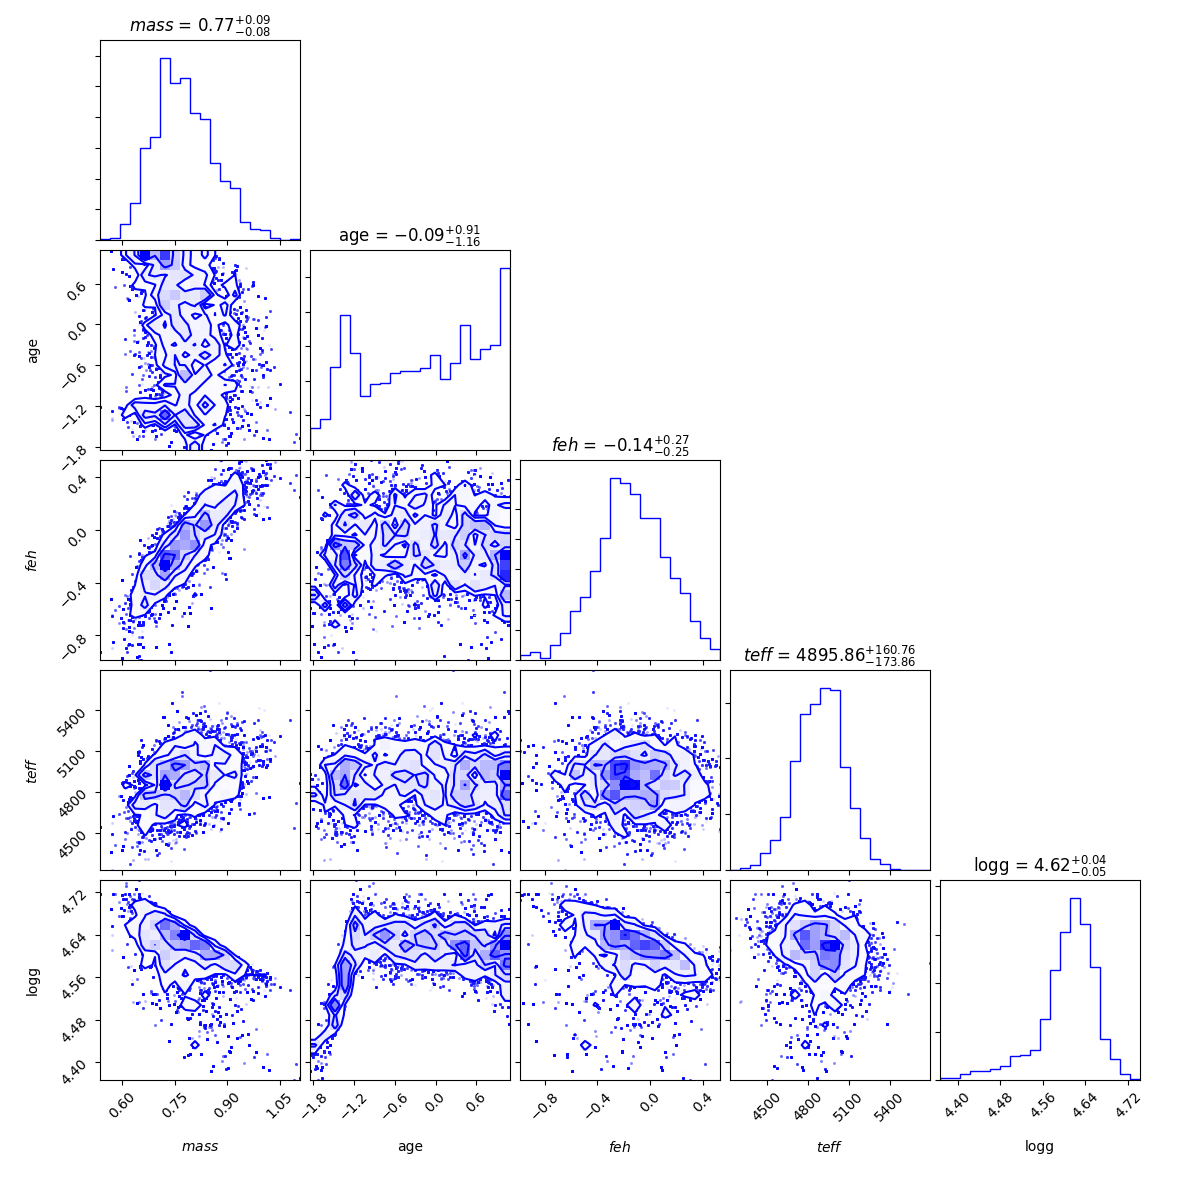
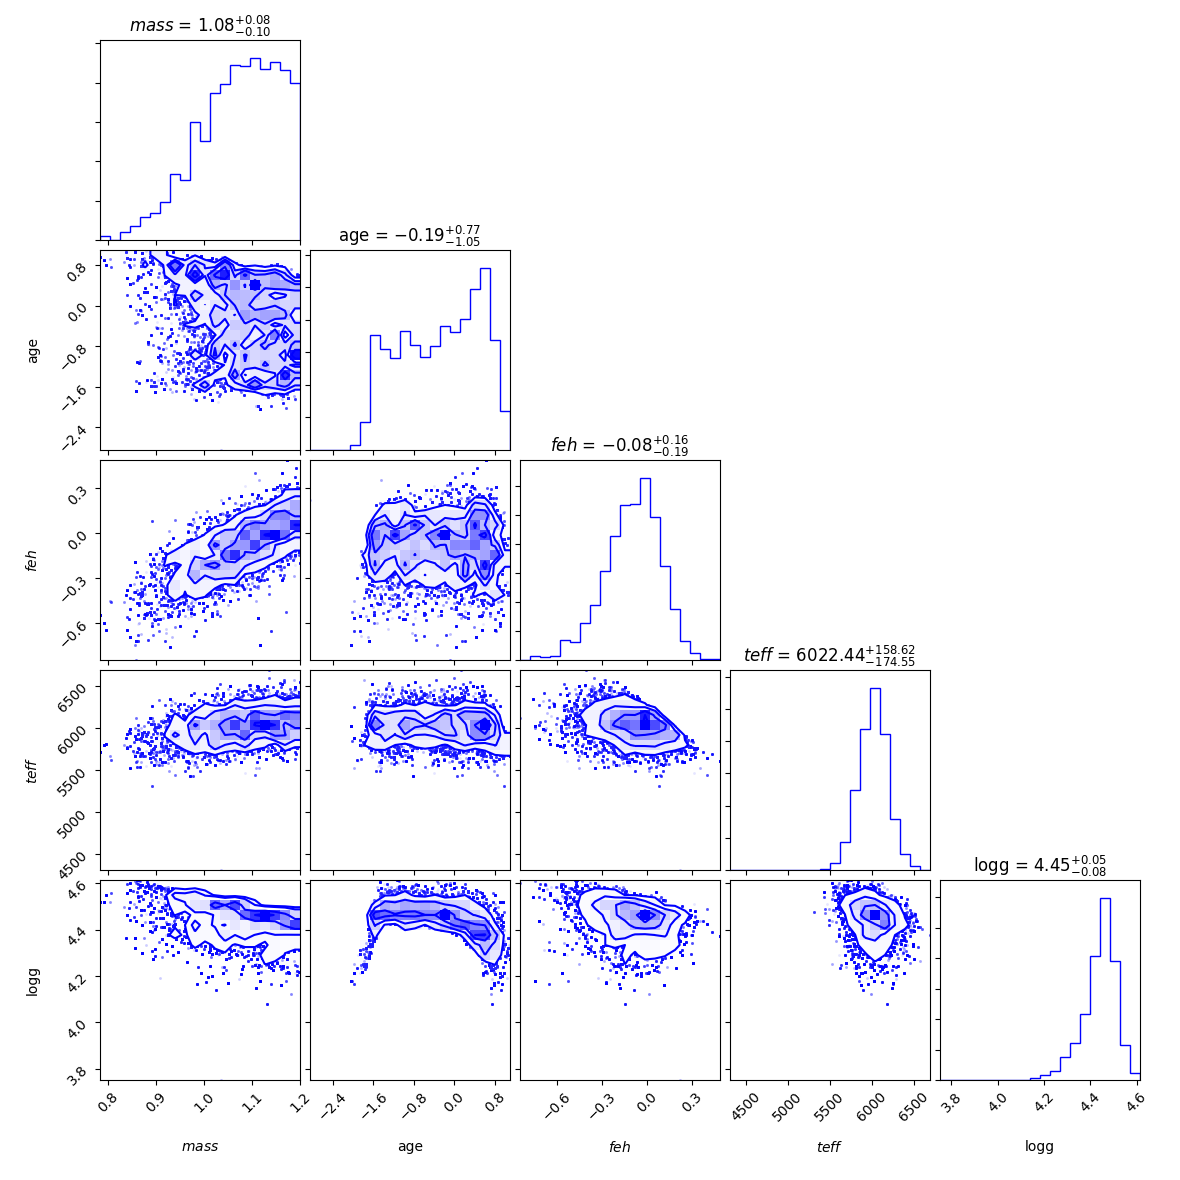
added files for more samples

diff --git a/MCMC/mcmc_mass_age/main.py b/MCMC/mcmc_mass_age/main.py
@@ -259,7 +259,7 @@ class metropolis_hasting:
                  parameters,
                  constraints,
                  step_size,
-                 instance):
+                 system):
 
         self.interpolator=interpolator
         self.parameters=parameters
@@ -273,42 +273,58 @@ class metropolis_hasting:
         self.constraints_evaulated=dict()
         self.current_results=dict()
 
-        self.instance=instance
+        self.system=system
 
         self.isAccepted=None
 
-        output_path = '/mnt/md0/ruskin/QstarFromTidalSynchronization/mcmc_mass_output/'
+        #output_path = '/mnt/md0/ruskin/QstarFromTidalSynchronization/mcmc_mass_output/'
 
-        self.filenames=[output_path+'accepted_parameters_'+self.instance+'.txt',
-                        output_path+'rejected_parameters_'+self.instance+'.txt']
+        self.filenames=['mass_age_teff_sample_'+self.system+'.txt',
+                        'rejected_parameters_'+self.system+'.txt']
 
 
 
 if __name__ == '__main__':
 
     parser=argparse.ArgumentParser()
-    parser.add_argument('-i', action='store',dest='instance',
-                        help='define an instance for mcmc')
+    parser.add_argument('-l',action='store',dest='data_line',
+                        help='specify the system from data_file.txt')
     args=parser.parse_args()
 
-    instance=args.instance
+    system=args.data_line
 
     #interpolator
     serialized_dir = poet_path +  "stellar_evolution_interpolators"
     manager = StellarEvolutionManager(serialized_dir)
     interpolator = manager.get_interpolator_by_name('default')
 
-    #parameters
+
+    with open('catalog_KIC.txt','r') as f:
+        for i,lines in enumerate(f):
+            if i==int(system):
+                print('For values = ',lines)
+                x=lines.split()
+                teff_value=float(x[2])
+                teff_sigma=float(x[3])
+                logg_value=float(x[10])
+                logg_sigma=float(x[11])
+                feh_value=float(x[4])
+                feh_sigma=float(x[5])
+
     parameters = dict(
         mass=dict(min=0.5,max=1.2),
         lage=dict(min=-3,max=1.1),
-        feh=dict(value=-0.32,sigma=0.3)
+        feh=dict(value=feh_value,sigma=feh_sigma)
     )
 
+    print('Parameters = ',parameters)
+
     constraints = dict(
-        teff=dict(value=4848,sigma=173),
-        logg=dict(value=4.55,sigma=0.065)
+        teff=dict(value=teff_value,sigma=teff_sigma),
+        logg=dict(value=logg_value,sigma=logg_sigma)
     )
+
+    print('Constraints = ',constraints)
 
     step_size = dict(
         mass_step=1.0,
@@ -321,7 +337,7 @@ if __name__ == '__main__':
                             parameters,
                             constraints,
                             step_size,
-                            instance)
+                            system)
 
     #metropolis_hasting
     MCMC.iterations()

diff --git a/MCMC/mcmc_mass_age/corner_plot.py b/MCMC/mcmc_mass_age/corner_plot.py
@@ -1,0 +1,54 @@
+import corner
+import numpy as np
+import matplotlib.pyplot as plt
+import argparse
+
+
+parser=argparse.ArgumentParser()
+parser.add_argument('-l',action='store',dest='system',
+                    help='specify the system fom catalog')
+args=parser.parse_args()
+
+system=args.system
+
+data=[]
+mass=[]
+age=[]
+feh=[]
+
+with open('nominal_values','w') as f1:
+    f1.write('system'+'\t'+
+             'mass'+'\t'+
+             'age'+'\t'+
+             'feh'+'\n')
+
+with open('mass_age_teff_sample_'+system+'.txt','r') as f:
+    next(f)
+    for lines in f:
+        x=lines.split()
+        try:
+            mass.append(float(x[1]))
+            age.append(float(x[2]))
+            feh.append(float(x[3]))
+            data.append(float(x[1]))
+            data.append(float(x[2]))
+            data.append(float(x[3]))
+            data.append(float(x[4]))
+            data.append(float(x[5]))
+        except:continue
+
+
+data=np.array(data)
+d=data.reshape([len(data)//5,5])
+
+figure=corner.corner(d,
+                     labels=[r"$mass$",r"age",r"$feh$",r"$teff$",r"logg"],
+                     color='b',
+                     qunatiles=[0.16,0.5],
+                     show_titles=True)
+
+
+
+plt.figure(1)
+plt.show()
+

diff --git a/MCMC/mcmc_mass_age/corner_compute_nominal.py b/MCMC/mcmc_mass_age/corner_compute_nominal.py
@@ -1,0 +1,37 @@
+import numpy as np
+import matplotlib.pyplot as plt
+import corner
+
+
+with open('nominal_values.txt','w') as f1:
+    f1.write('system'+'\t'+
+             'mass'+'\t'+
+             'age'+'\t'+
+             'feh'+'\n')
+
+    for i in range(10):
+        system=repr(i+1)
+
+        mass=[]
+        age=[]
+        feh=[]
+
+        with open('mass_age_teff_sample_'+system+'.txt','r') as f:
+            next(f)
+            for lines in f:
+                x=lines.split()
+                try:
+                    mass.append(float(x[1]))
+                    age.append(float(x[2]))
+                    feh.append(float(x[3]))
+
+                except:continue
+
+        mass_mean=corner.quantile(mass,[0.5])[0]
+        age_mean=corner.quantile(age,[0.5])[0]
+        feh_mean=corner.quantile(feh,[0.5])[0]
+
+        f1.write(system+'\t'+
+                 repr(mass_mean)+'\t'+
+                 repr(age_mean)+'\t'+
+                 repr(feh_mean)+'\n')

diff --git a/MCMC/mcmc_mass_age/test_loop.py b/MCMC/mcmc_mass_age/test_loop.py
@@ -1,0 +1,1 @@
+print('Hello')
